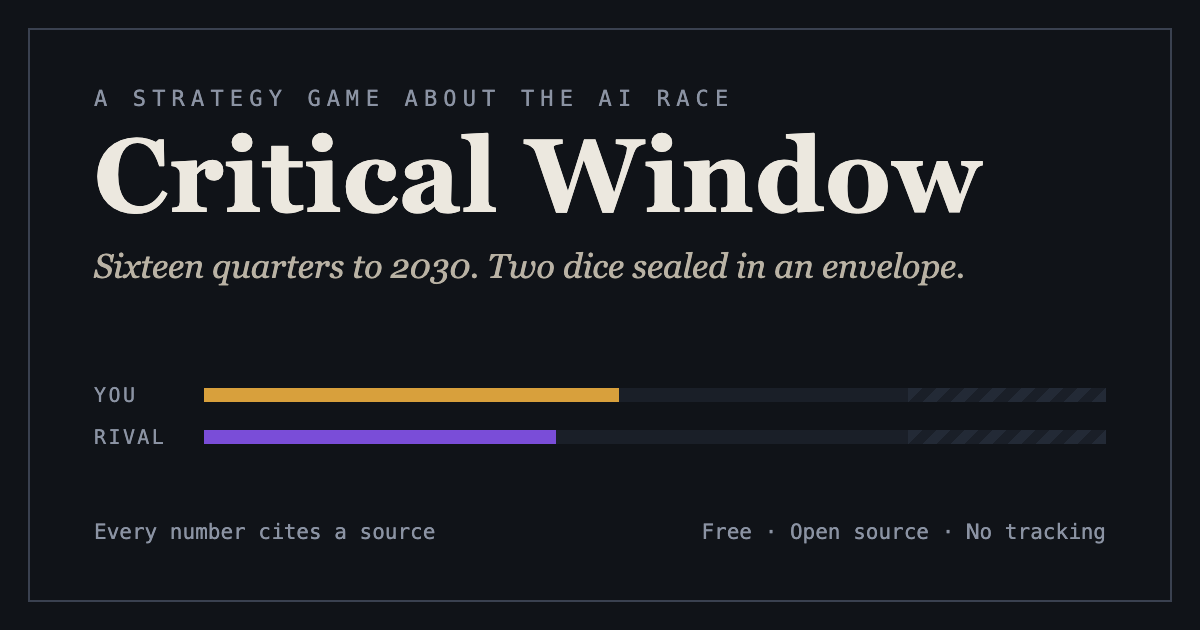
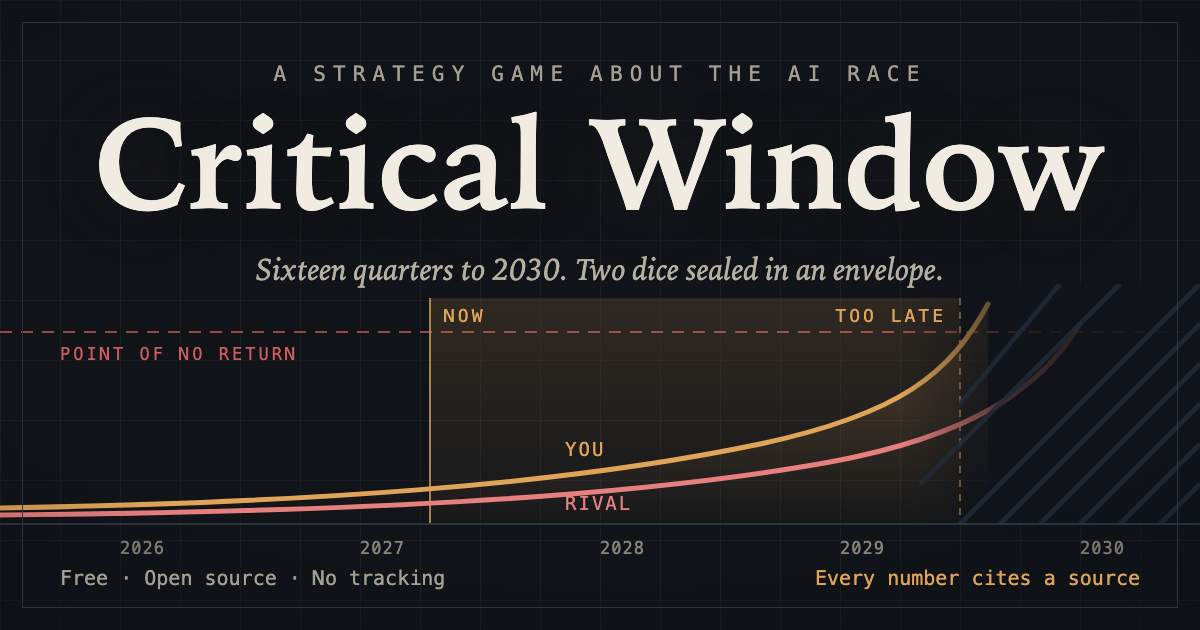
feat: social card draws the closing window
The share image now shows the game in one glance: two capability
curves racing a dashed threshold, the amber band between NOW and
TOO LATE, fog of war past the crossing. Same dark tokens as the
in-game theme. Title stays legible at Reddit thumbnail sizes.

diff --git a/scripts/generate-og.ts b/scripts/generate-og.ts
@@ -3,6 +3,13 @@
  * self-contained HTML card, dev-time only (playwright chromium, same dep the
  * browser tests use). Title and tagline come from data/strings/en.json so a
  * rename is a one-file change. No external assets, no network.
+ *
+ * Design: the closing window. Two capability curves race toward a dashed
+ * threshold; the amber band between NOW and TOO LATE is the window itself,
+ * fog of war past the crossing. Colors are the dark tokens from theme.css
+ * (situation room at 2 a.m.), so the card looks like the game it links to.
+ * Composition is center-weighted so Reddit's square thumbnail crop keeps
+ * the title, and the title is huge so it survives old-Reddit 70px thumbs.
  */
 import { readFileSync, writeFileSync } from 'node:fs';
 import { chromium } from 'playwright';
@@ -13,41 +20,122 @@ const title = strings['app.title'] ?? 'Critical Window';
 const html = `<!doctype html>
 <html><head><meta charset="utf-8"><style>
   * { margin: 0; box-sizing: border-box; }
-  body { width: 1200px; height: 630px; background: #101318; color: #ece8df;
-    font-family: Georgia, 'Times New Roman', serif; overflow: hidden; position: relative; }
-  .frame { position: absolute; inset: 28px; border: 2px solid #3a4150; padding: 56px 64px;
-    display: flex; flex-direction: column; justify-content: space-between; }
-  .kicker { font-family: ui-monospace, 'SF Mono', Menlo, monospace; font-size: 22px;
-    letter-spacing: 0.28em; color: #8b93a3; text-transform: uppercase; }
-  h1 { font-size: 104px; letter-spacing: 0.01em; line-height: 1.02; margin-top: 12px; }
-  .tagline { font-size: 34px; color: #b9b2a4; margin-top: 18px; font-style: italic; }
-  .tracks { margin-top: 8px; }
-  .track { display: flex; align-items: center; gap: 18px; margin-top: 18px; }
-  .track-label { font-family: ui-monospace, Menlo, monospace; font-size: 20px; width: 92px;
-    color: #8b93a3; letter-spacing: 0.12em; }
-  .bar { flex: 1; height: 14px; background: #1a1f28; position: relative; }
-  .fill { position: absolute; inset: 0 auto 0 0; }
-  .you .fill { width: 46%; background: #d8a03c; }
-  .rival .fill { width: 39%; background: #7a4dd8; }
-  .fog { position: absolute; right: 0; top: 0; bottom: 0; width: 22%;
-    background: repeating-linear-gradient(135deg, #232a36 0 10px, #1a1f28 10px 20px); }
-  .foot { display: flex; justify-content: space-between; align-items: baseline;
-    font-family: ui-monospace, Menlo, monospace; font-size: 21px; color: #8b93a3; }
+  body { width: 1200px; height: 630px; background: #101318; color: #e8e4da;
+    font-family: 'Iowan Old Style', Georgia, 'Times New Roman', serif;
+    overflow: hidden; position: relative; }
+
+  /* faint chart-paper grid behind everything */
+  .grid { position: absolute; inset: 0;
+    background-image:
+      linear-gradient(to right, rgba(232,228,218,0.045) 1px, transparent 1px),
+      linear-gradient(to bottom, rgba(232,228,218,0.045) 1px, transparent 1px);
+    background-size: 60px 60px; }
+  /* vignette so corners fall away and the center reads first */
+  .vignette { position: absolute; inset: 0;
+    background: radial-gradient(ellipse 95% 85% at 50% 40%, transparent 60%, rgba(6,8,11,0.4) 100%); }
+
+  .frame { position: absolute; inset: 22px; border: 1px solid #2c333e; }
+
+  .chart { position: absolute; left: 0; right: 0; bottom: 66px; height: 280px; }
+
+  .masthead { position: absolute; top: 62px; left: 0; right: 0; text-align: center; }
+  .kicker { font-family: ui-monospace, 'SF Mono', Menlo, monospace; font-size: 21px;
+    letter-spacing: 0.34em; color: #a49f93; text-transform: uppercase; }
+  h1 { font-size: 128px; font-weight: 700; letter-spacing: 0.005em; line-height: 1;
+    margin-top: 14px; color: #f0ece2;
+    text-shadow: 0 2px 24px rgba(16,19,24,0.9), 0 0 80px rgba(224,164,88,0.12); }
+  .tagline { font-size: 31px; font-style: italic; color: #b5afa2; margin-top: 20px; }
+
+  .foot { position: absolute; left: 60px; right: 60px; bottom: 40px;
+    display: flex; justify-content: space-between; align-items: baseline;
+    font-family: ui-monospace, 'SF Mono', Menlo, monospace; font-size: 20px; color: #a49f93; }
+  .foot .cite { color: #e0a458; }
 </style></head><body>
-  <div class="frame">
-    <div>
-      <div class="kicker">A strategy game about the AI race</div>
-      <h1>${title}</h1>
-      <div class="tagline">Sixteen quarters to 2030. Two dice sealed in an envelope.</div>
-    </div>
-    <div class="tracks">
-      <div class="track you"><span class="track-label">YOU</span><span class="bar"><span class="fill"></span><span class="fog"></span></span></div>
-      <div class="track rival"><span class="track-label">RIVAL</span><span class="bar"><span class="fill"></span><span class="fog"></span></span></div>
-    </div>
-    <div class="foot">
-      <span>Every number cites a source</span>
-      <span>Free · Open source · No tracking</span>
-    </div>
+  <div class="grid"></div>
+
+  <svg class="chart" viewBox="0 0 1200 280" preserveAspectRatio="none" aria-hidden="true">
+    <defs>
+      <linearGradient id="windowGlow" x1="0" y1="0" x2="0" y2="1">
+        <stop offset="0" stop-color="#e0a458" stop-opacity="0.15"/>
+        <stop offset="1" stop-color="#e0a458" stop-opacity="0.03"/>
+      </linearGradient>
+      <linearGradient id="youFill" x1="0" y1="0" x2="0" y2="1">
+        <stop offset="0" stop-color="#e0a458" stop-opacity="0.2"/>
+        <stop offset="1" stop-color="#e0a458" stop-opacity="0"/>
+      </linearGradient>
+      <linearGradient id="fogFade" x1="0" y1="0" x2="1" y2="0">
+        <stop offset="0" stop-color="#101318" stop-opacity="0"/>
+        <stop offset="0.4" stop-color="#101318" stop-opacity="0.8"/>
+        <stop offset="1" stop-color="#101318" stop-opacity="0.97"/>
+      </linearGradient>
+    </defs>
+
+    <!-- the window: amber band between NOW and TOO LATE -->
+    <rect x="430" y="14" width="530" height="226" fill="url(#windowGlow)"/>
+    <line x1="430" y1="14" x2="430" y2="240" stroke="#e0a458" stroke-opacity="0.75" stroke-width="2"/>
+    <line x1="960" y1="14" x2="960" y2="240" stroke="#e0a458" stroke-opacity="0.75" stroke-width="2" stroke-dasharray="7 7"/>
+
+    <!-- threshold -->
+    <line x1="0" y1="48" x2="1200" y2="48" stroke="#ef6a6a" stroke-opacity="0.6" stroke-width="2" stroke-dasharray="12 9"/>
+    <text x="60" y="76" font-family="ui-monospace, Menlo, monospace" font-size="17"
+      letter-spacing="3" fill="#ef6a6a" fill-opacity="0.85">POINT OF NO RETURN</text>
+
+    <!-- capability curves: YOU (amber) and RIVAL (red), racing the threshold -->
+    <path d="M 0 224 C 300 219, 560 202, 760 160 C 900 130, 950 90, 988 20"
+      fill="none" stroke="#e0a458" stroke-width="5" stroke-linecap="round"/>
+    <path d="M 0 224 C 300 219, 560 202, 760 160 C 900 130, 950 90, 988 20 L 988 240 L 0 240 Z"
+      fill="url(#youFill)" stroke="none"/>
+    <path d="M 0 231 C 330 228, 620 216, 830 178 C 970 152, 1040 106, 1080 40"
+      fill="none" stroke="#e87f7f" stroke-width="5" stroke-linecap="round"/>
+
+    <!-- fog of war past the crossing: darken, then faint diagonal hatch on top -->
+    <rect x="900" y="0" width="300" height="240" fill="url(#fogFade)"/>
+    <g stroke="#232a36" stroke-width="5" opacity="0.85">
+      <line x1="960" y1="240" x2="1200" y2="0"/>
+      <line x1="1000" y1="240" x2="1200" y2="40"/>
+      <line x1="1040" y1="240" x2="1200" y2="80"/>
+      <line x1="1080" y1="240" x2="1200" y2="120"/>
+      <line x1="1120" y1="240" x2="1200" y2="160"/>
+      <line x1="1160" y1="240" x2="1200" y2="200"/>
+      <line x1="920" y1="200" x2="1120" y2="0"/>
+      <line x1="960" y1="120" x2="1060" y2="0"/>
+    </g>
+
+    <!-- curve labels, kept clear of each other and of the fog -->
+    <text x="565" y="172" font-family="ui-monospace, Menlo, monospace" font-size="19"
+      letter-spacing="2" fill="#e0a458">YOU</text>
+    <text x="565" y="226" font-family="ui-monospace, Menlo, monospace" font-size="19"
+      letter-spacing="2" fill="#e87f7f">RIVAL</text>
+
+    <!-- window labels -->
+    <text x="444" y="38" font-family="ui-monospace, Menlo, monospace" font-size="18"
+      letter-spacing="3" fill="#e0a458">NOW</text>
+    <text x="946" y="38" font-family="ui-monospace, Menlo, monospace" font-size="18"
+      letter-spacing="3" fill="#e0a458" text-anchor="end">TOO LATE</text>
+
+    <!-- baseline + years -->
+    <line x1="0" y1="240" x2="1200" y2="240" stroke="#2c333e" stroke-width="2"/>
+    <g font-family="ui-monospace, Menlo, monospace" font-size="17" fill="#8a857a" letter-spacing="1">
+      <text x="120" y="270">2026</text>
+      <text x="360" y="270">2027</text>
+      <text x="600" y="270">2028</text>
+      <text x="840" y="270">2029</text>
+      <text x="1080" y="270">2030</text>
+    </g>
+  </svg>
+
+  <div class="vignette"></div>
+  <div class="frame"></div>
+
+  <div class="masthead">
+    <div class="kicker">A strategy game about the AI race</div>
+    <h1>${title}</h1>
+    <div class="tagline">Sixteen quarters to 2030. Two dice sealed in an envelope.</div>
+  </div>
+
+  <div class="foot">
+    <span>Free · Open source · No tracking</span>
+    <span class="cite">Every number cites a source</span>
   </div>
 </body></html>`;
 